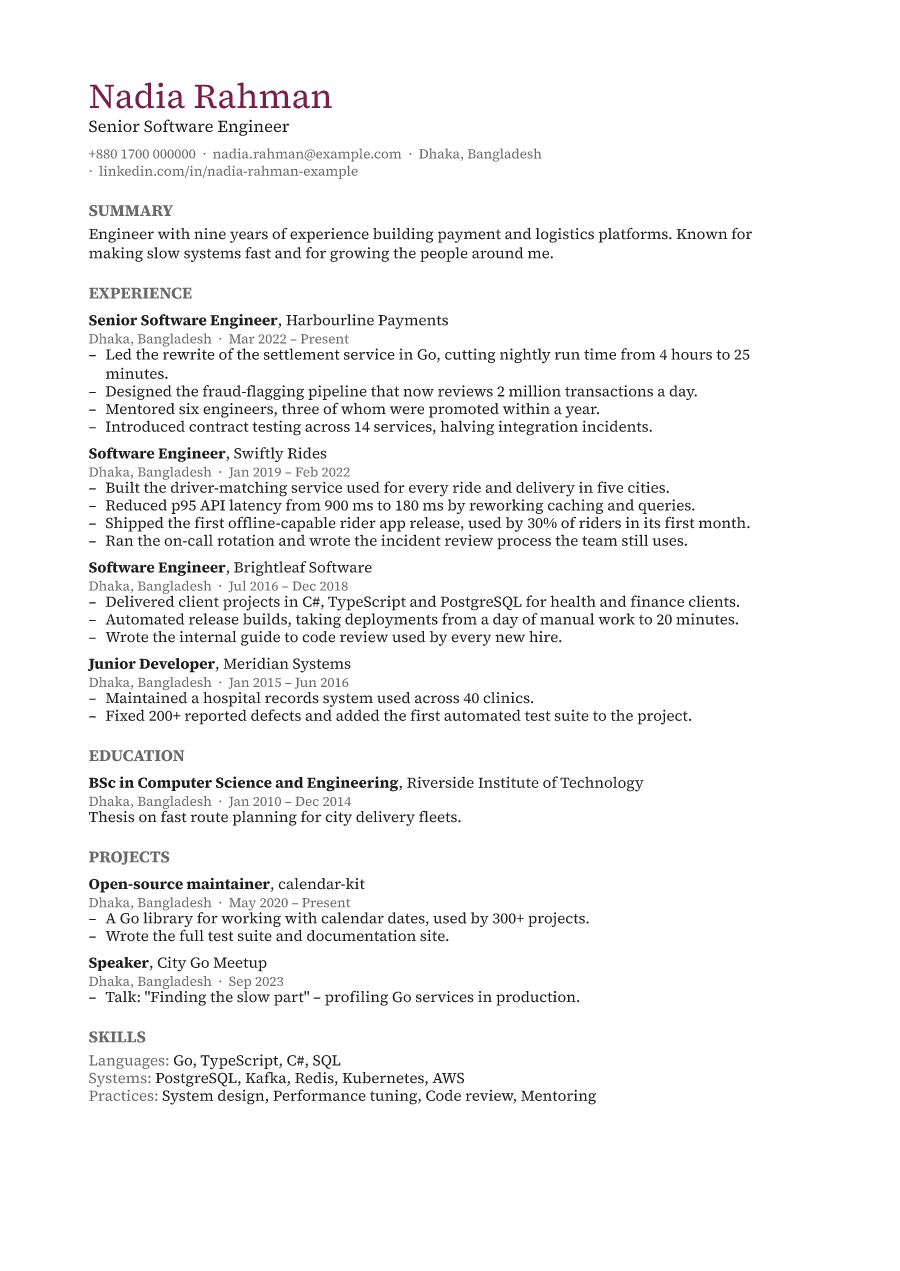
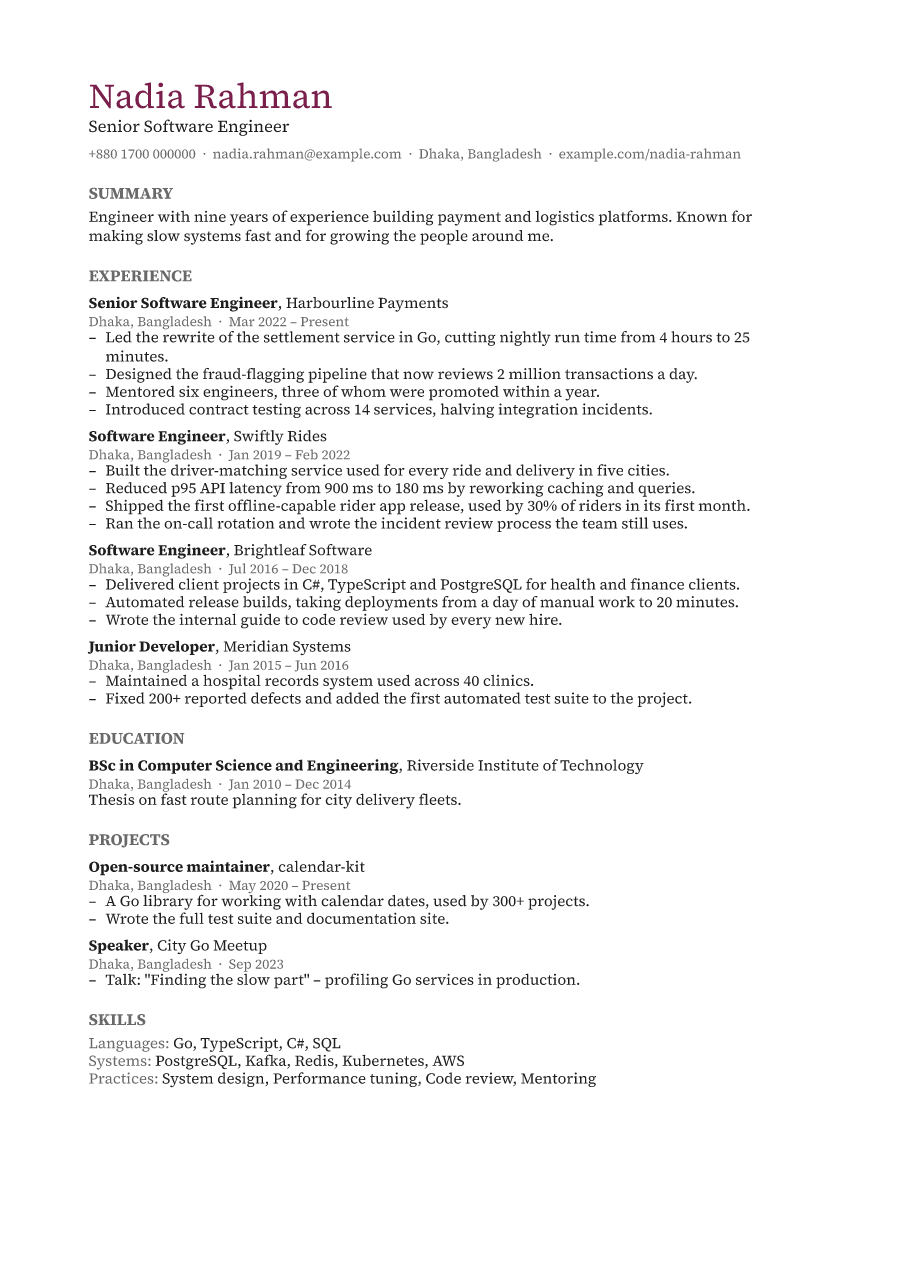
Point the example CV's link at example.com
- The example's profile link moves from a LinkedIn address, which could
  belong to someone, to example.com, which is reserved for examples
- The photo test compares the words a parser reads rather than where
  lines break, since a photo narrows the header and moves line breaks

Changed region(s): [[0.0933, 0.1227, 0.84, 0.8899]]

diff --git a/frontend/src/cv/templates/ats.test.ts b/frontend/src/cv/templates/ats.test.ts
@@ -108,7 +108,7 @@ describe.each(CASES)('the $template template (ATS mode $atsMode), as an ATS read
         expect(read.text.trimStart().startsWith('Nadia Rahman')).toBe(true)
         expect(read.text).toContain('nadia.rahman@example.com')
         expect(read.text).toContain('+880 1700 000000')
-        expect(read.text).toContain('linkedin.com/in/nadia-rahman-example')
+        expect(read.text).toContain('example.com/nadia-rahman')
     })
 
     it('keeps the sections in order, under headings parsers know', () => {
@@ -192,7 +192,7 @@ describe.each(CV_TEMPLATES.map((template) => template.id))('formatting in the %s
[1 lines of base64/hex data omitted]
 
 describe.each(['classic', 'modern', 'professional'])('a photo in the %s template', (template) => {
-    it('is drawn, and leaves the text exactly as it was', async () => {
+    it('is drawn, and leaves the words a parser reads exactly as they were', async () => {
         const cv = sampleCv()
         const without = await textOf(await pdfOf(template, cv))
         const pdf = await pdfOf(template, {...cv, person: {...cv.person, photo: PHOTO}})
@@ -200,6 +200,10 @@ describe.each(['classic', 'modern', 'professional'])('a photo in the %s template
 
         expect(new TextDecoder('latin1').decode(pdf)).toMatch(/\/Subtype\s*\/Image/)
         expect(read.text.trimStart().startsWith('Nadia Rahman')).toBe(true)
-        expect(read.text).toBe(without.text)
+        // The photo narrows the header, so lines may break in other places; the words and
+        // their order must not change.
+        const words = (text: string) => text.replace(/\s+/g, ' ').trim()
+
+        expect(words(read.text)).toBe(words(without.text))
     })
 })

diff --git a/frontend/src/cv/render-model.test.ts b/frontend/src/cv/render-model.test.ts
@@ -47,9 +47,9 @@ describe('what a template is given', () => {
     it('writes links out in full, so a parser that drops links still has the address', () => {
         const model = renderModel(sampleCv())
 
-        expect(model.contact.map((item) => item.text)).toEqual(['+880 1700 000000', 'nadia.rahman@example.com', 'Dhaka, Bangladesh', 'linkedin.com/in/nadia-rahman-example'])
+        expect(model.contact.map((item) => item.text)).toEqual(['+880 1700 000000', 'nadia.rahman@example.com', 'Dhaka, Bangladesh', 'example.com/nadia-rahman'])
         expect(model.contact[1]).toEqual({text: 'nadia.rahman@example.com', url: 'mailto:nadia.rahman@example.com', kind: 'email'})
-        expect(model.contact[3].kind).toBe('linkedin')
+        expect(model.contact[3].kind).toBe('web')
     })
 
     it('gives a link without a scheme one, so it opens', () => {

diff --git a/frontend/src/cv/sample.ts b/frontend/src/cv/sample.ts
@@ -31,7 +31,7 @@ export function sampleCv(): Cv {
             email: 'nadia.rahman@example.com',
             phone: '+880 1700 000000',
             location: 'Dhaka, Bangladesh',
-            links: [{id: 'link-1', label: '', url: 'https://linkedin.com/in/nadia-rahman-example'}],
+            links: [{id: 'link-1', label: '', url: 'https://www.example.com/nadia-rahman'}],
             photo: '',
             hide: [],
         },
